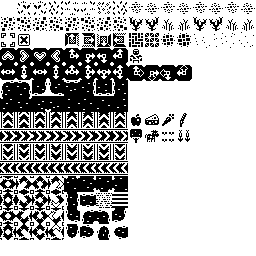
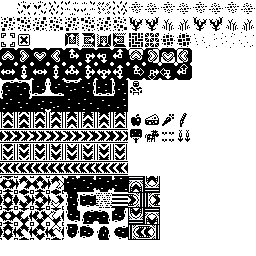
added tunnels

Changed region(s): [[0.5, 0.1875, 0.75, 0.375], [0.5, 0.6875, 0.625, 0.9375]]

diff --git a/src/buildings/conveyor.c b/src/buildings/conveyor.c
@@ -24,12 +24,20 @@ void conveyorUpdateFn(struct Building_t* _building, uint8_t _tick, uint8_t _zoom
       direction = _building->m_nextDir[_building->m_mode];
     }
 
-    switch (direction) {
-      case SN:; pd->sprite->moveTo(loc->m_cargo->m_sprite[_zoom], _building->m_pix_x*_zoom, (_building->m_pix_y - _building->m_progress)*_zoom); break;
-      case NS:; pd->sprite->moveTo(loc->m_cargo->m_sprite[_zoom], _building->m_pix_x*_zoom, (_building->m_pix_y + _building->m_progress)*_zoom); break;
-      case EW:; pd->sprite->moveTo(loc->m_cargo->m_sprite[_zoom], (_building->m_pix_x - _building->m_progress)*_zoom, _building->m_pix_y*_zoom); break;
-      case WE:; pd->sprite->moveTo(loc->m_cargo->m_sprite[_zoom], (_building->m_pix_x + _building->m_progress)*_zoom, _building->m_pix_y*_zoom); break;
-      case kDirN:; break;
+    // All of this only needs to be done if we are rendering
+    if (_tick == NEAR_TICK_AMOUNT) {
+      uint16_t hide = 0;
+      if (_building->m_subType.conveyor == kTunnelIn) {
+        hide = (TOT_WORLD_PIX_X * 2);
+      }
+
+      switch (direction) {
+        case SN:; pd->sprite->moveTo(loc->m_cargo->m_sprite[_zoom], (_building->m_pix_x + hide)*_zoom, (_building->m_pix_y - _building->m_progress + hide)*_zoom); break;
+        case NS:; pd->sprite->moveTo(loc->m_cargo->m_sprite[_zoom], (_building->m_pix_x + hide)*_zoom, (_building->m_pix_y + _building->m_progress + hide)*_zoom); break;
+        case EW:; pd->sprite->moveTo(loc->m_cargo->m_sprite[_zoom], (_building->m_pix_x - _building->m_progress + hide)*_zoom, (_building->m_pix_y + hide)*_zoom); break;
+        case WE:; pd->sprite->moveTo(loc->m_cargo->m_sprite[_zoom], (_building->m_pix_x + _building->m_progress + hide)*_zoom, (_building->m_pix_y + hide)*_zoom); break;
+        case kDirN:; break;
+      }
     }
     //pd->system->logToConsole("MOVE %i %i, %i", loc->m_pix_x, loc->m_pix_y, loc->m_progress);
   }
@@ -63,20 +71,60 @@ void conveyorUpdateFn(struct Building_t* _building, uint8_t _tick, uint8_t _zoom
     switch (_building->m_subType.conveyor) {
       case kSplitI:; case kSplitL:; _building->m_mode = (_building->m_mode + 1) % 2; break;
       case kSplitT:; _building->m_mode = (_building->m_mode + 1) % 3; break;
-      case kBelt:; case kFilterL:; case kNConvSubTypes:; break;
+      case kBelt:; case kFilterL:; case kTunnelIn:; case kTunnelOut:; case kNConvSubTypes:; break;
     }
   }
 }
 
-bool canBePlacedConveyor(struct Location_t* _loc) {
+bool canBePlacedConveyor(struct Location_t* _loc, enum kDir _dir, union kSubType _subType) {
   bool floor = false;
   struct Tile_t* t = getTile(_loc->m_x, _loc->m_y);
   if (t->m_tile < FLOOR_TILES) floor = true;
   else if (t->m_tile >= getSprite16_idx(8, 2) && t->m_tile < getSprite16_idx(8+4, 2)) floor = true;
+
+  if (_subType.conveyor == kTunnelIn) {
+    t = getTunnelOutTile(_loc, _dir);
+    if (t->m_tile < FLOOR_TILES) floor &= true;
+    else if (t->m_tile >= getSprite16_idx(8, 2) && t->m_tile < getSprite16_idx(8+4, 2)) floor &= true;
+  }
+
   if (!floor) return false;
+
   // We can place a conveyor on top of an existing one
-  if (_loc->m_building == NULL || _loc->m_building->m_type == kConveyor) return true;
-  return false;
+  bool existingGood = false;
+  if (_loc->m_building == NULL || _loc->m_building->m_type == kConveyor) existingGood = true;
+
+  if (_subType.conveyor == kTunnelIn) {
+    struct Location_t* tunnelOut = getTunnelOutLocation(_loc, _dir);
+    if (tunnelOut->m_building == NULL || tunnelOut->m_building->m_type == kConveyor) existingGood &= true;
+  }
+
+  if (!existingGood) return false;
+
+  return true;
+}
+
+#define TUNNEL_HOPS 2
+struct Location_t* getTunnelOutLocation(struct Location_t* _in, enum kDir _dir) {
+  switch (_dir) {
+    case SN: return getLocation(_in->m_x, _in->m_y - TUNNEL_HOPS); break;
+    case WE: return getLocation(_in->m_x + TUNNEL_HOPS, _in->m_y); break;
+    case NS: return getLocation(_in->m_x, _in->m_y + TUNNEL_HOPS); break;
+    case EW: return getLocation(_in->m_x - TUNNEL_HOPS, _in->m_y); break;
+    case kDirN: break;
+  }
+  return NULL;
+}
+
+struct Tile_t* getTunnelOutTile(struct Location_t* _in, enum kDir _dir) {
+  switch (_dir) {
+    case SN: return getTile(_in->m_x, _in->m_y - TUNNEL_HOPS); break;
+    case WE: return getTile(_in->m_x + TUNNEL_HOPS, _in->m_y); break;
+    case NS: return getTile(_in->m_x, _in->m_y + TUNNEL_HOPS); break;
+    case EW: return getTile(_in->m_x - TUNNEL_HOPS, _in->m_y); break;
+    case kDirN: break;
+  }
+  return NULL;
 }
 
 void assignNeighborsConveyor(struct Building_t* _building) {
@@ -86,7 +134,13 @@ void assignNeighborsConveyor(struct Building_t* _building) {
   struct Location_t* right;
   getBuildingNeighbors(_building, 1, &above, &below, &left, &right);
 
-  if (_building->m_subType.conveyor == kBelt) {
+  struct Location_t* aboveTunnel;
+  struct Location_t* belowTunnel;
+  struct Location_t* leftTunnel;
+  struct Location_t* rightTunnel;
+  getBuildingNeighbors(_building, TUNNEL_HOPS, &aboveTunnel, &belowTunnel, &leftTunnel, &rightTunnel);
+
+  if (_building->m_subType.conveyor == kBelt || _building->m_subType.conveyor == kTunnelOut) {
     switch (_building->m_dir) {
       case SN:; _building->m_next[0]    = above;
                 _building->m_nextDir[0] = SN; break;
@@ -95,6 +149,18 @@ void assignNeighborsConveyor(struct Building_t* _building) {
       case WE:; _building->m_next[0]    = right;
                 _building->m_nextDir[0] = WE; break;
       case EW:; _building->m_next[0]    = left;
+                _building->m_nextDir[0] = EW; break;
+      case kDirN:; break;
+    }
+  } else if (_building->m_subType.conveyor == kTunnelIn) {
+    switch (_building->m_dir) {
+      case SN:; _building->m_next[0]    = aboveTunnel;
+                _building->m_nextDir[0] = SN; break;
+      case NS:; _building->m_next[0]    = belowTunnel;
+                _building->m_nextDir[0] = NS; break;
+      case WE:; _building->m_next[0]    = rightTunnel;
+                _building->m_nextDir[0] = WE; break;
+      case EW:; _building->m_next[0]    = leftTunnel;
                 _building->m_nextDir[0] = EW; break;
       case kDirN:; break;
     }
@@ -137,11 +203,13 @@ void buildingSetupConveyor(struct Building_t* _building) {
   for (uint32_t zoom = 1; zoom < ZOOM_LEVELS; ++zoom) {
 
     switch (_building->m_subType.conveyor) {
-      case kBelt:;    _building->m_image[zoom] = getSprite16(0, CONV_START_Y + _building->m_dir, zoom); break;
-      case kSplitI:;  _building->m_image[zoom] = getSprite16(0, 11 + _building->m_dir, zoom); break;
-      case kSplitL:;  _building->m_image[zoom] = getSprite16(1, 11 + _building->m_dir, zoom); break;
-      case kSplitT:;  _building->m_image[zoom] = getSprite16(2, 11 + _building->m_dir, zoom); break;
-      case kFilterL:; _building->m_image[zoom] = getSprite16(3, 11 + _building->m_dir, zoom); break;
+      case kBelt:;     _building->m_image[zoom] = getSprite16(0, CONV_START_Y + _building->m_dir, zoom); break;
+      case kSplitI:;   _building->m_image[zoom] = getSprite16(0, 11 + _building->m_dir, zoom); break;
+      case kSplitL:;   _building->m_image[zoom] = getSprite16(1, 11 + _building->m_dir, zoom); break;
+      case kSplitT:;   _building->m_image[zoom] = getSprite16(2, 11 + _building->m_dir, zoom); break;
+      case kFilterL:;  _building->m_image[zoom] = getSprite16(3, 11 + _building->m_dir, zoom); break;
+      case kTunnelIn:; _building->m_image[zoom] = getSprite16(8, 11 + _building->m_dir, zoom); break;
+      case kTunnelOut:;_building->m_image[zoom] = getSprite16(9, 11 + _building->m_dir, zoom); break;
       case kNConvSubTypes:; break;
     }
 
@@ -155,6 +223,11 @@ void buildingSetupConveyor(struct Building_t* _building) {
       pd->sprite->setImage(_building->m_sprite[zoom], getConveyorMaster(zoom, _building->m_dir), kBitmapUnflipped);
       pd->sprite->moveTo(_building->m_sprite[zoom], _building->m_pix_x*zoom, _building->m_pix_y*zoom);
       pd->sprite->setZIndex(_building->m_sprite[zoom], Z_INDEX_CONVEYOR);
+    } else {
+      if (_building->m_sprite[zoom] == NULL) {
+        pd->sprite->freeSprite(_building->m_sprite[zoom]);
+        _building->m_sprite[zoom] = NULL;
+      }
     }
   }
 

diff --git a/src/ui.c b/src/ui.c
@@ -8,7 +8,7 @@
 #include "generate.h"
 #include "cargo.h"
 
-uint16_t m_UIIcons[] = {0,3,  0,4,  4,3,  4,4,  8,4,  8,7,  10,7,  11,7,  9,7,  4,2,  1,2};
+uint16_t m_UIIcons[] = {0,3,  0,4,  4,3,  4,4,  8,4,  8,3,  8,7,  10,7,  11,7,  9,7,  4,2,  1,2};
 
 enum kGameMode m_mode;
 
@@ -114,13 +114,14 @@ void updateBlueprint() {
       case kMenuSplitL:;    pd->sprite->setImage(bp, getSprite16(m_UISelectedRotation+4, 3, zoom),    kBitmapUnflipped); setPlayerLookingAtOffset(0); break;
       case kMenuSplitT:;    pd->sprite->setImage(bp, getSprite16(m_UISelectedRotation+4, 4, zoom),    kBitmapUnflipped); setPlayerLookingAtOffset(0); break;     
       case kMenuFilterL:;   pd->sprite->setImage(bp, getSprite16(m_UISelectedRotation+8, 4, zoom),    kBitmapUnflipped); setPlayerLookingAtOffset(0); break;
-      case kMenuApple:;     pd->sprite->setImage(bp, getSprite16(m_UIIcons[10], m_UIIcons[11], zoom),   kBitmapUnflipped); setPlayerLookingAtOffset(0); break;     
-      case kMenuCarrot:;    pd->sprite->setImage(bp, getSprite16(m_UIIcons[12], m_UIIcons[13], zoom), kBitmapUnflipped); setPlayerLookingAtOffset(0); break;     
-      case kMenuWheat:;     pd->sprite->setImage(bp, getSprite16(m_UIIcons[14], m_UIIcons[15], zoom), kBitmapUnflipped); setPlayerLookingAtOffset(0); break;     
-      case kMenuCheese:;    pd->sprite->setImage(bp, getSprite16(m_UIIcons[16], m_UIIcons[17], zoom), kBitmapUnflipped); setPlayerLookingAtOffset(0); break;     
+      case kMenuTunnel:;    pd->sprite->setImage(bp, getSprite16(m_UISelectedRotation+8, 3, zoom),    kBitmapUnflipped); setPlayerLookingAtOffset(0); break;
+      case kMenuApple:;     pd->sprite->setImage(bp, getSprite16(m_UIIcons[12], m_UIIcons[13], zoom),   kBitmapUnflipped); setPlayerLookingAtOffset(0); break;     
+      case kMenuCarrot:;    pd->sprite->setImage(bp, getSprite16(m_UIIcons[14], m_UIIcons[15], zoom), kBitmapUnflipped); setPlayerLookingAtOffset(0); break;     
+      case kMenuWheat:;     pd->sprite->setImage(bp, getSprite16(m_UIIcons[16], m_UIIcons[17], zoom), kBitmapUnflipped); setPlayerLookingAtOffset(0); break;     
+      case kMenuCheese:;    pd->sprite->setImage(bp, getSprite16(m_UIIcons[18], m_UIIcons[19], zoom), kBitmapUnflipped); setPlayerLookingAtOffset(0); break;     
       case kMenuExtractor:; pd->sprite->setImage(bp, getSprite48(m_UISelectedRotation, 0 , zoom),     kBitmapUnflipped); setPlayerLookingAtOffset(2);
                             pd->sprite->setImage(bpRadius, player->m_blueprintRadiusBitmap7x7[zoom], kBitmapUnflipped); break;     
-      case kMenuBin:;       pd->sprite->setImage(bp, getSprite16(m_UIIcons[20], m_UIIcons[21], zoom), kBitmapUnflipped); setPlayerLookingAtOffset(1); break;     
+      case kMenuBin:;       pd->sprite->setImage(bp, getSprite16(m_UIIcons[22], m_UIIcons[23], zoom), kBitmapUnflipped); setPlayerLookingAtOffset(1); break;     
     }
  
   } else { // Clear blueprint
@@ -138,7 +139,7 @@ void addUIToSpriteList() {
 
 const char* getRotationAsString() {
   switch (m_UISelectedID) {
-    case kMenuConveyor:;
+    case kMenuConveyor:; case kMenuTunnel:;
       switch (m_UISelectedRotation) {
         case 0: return "N";
         case 1: return "E";
@@ -219,6 +220,7 @@ void drawUIBottom() {
       case kMenuSplitL:;    snprintf(text, 128, "'L' Conveyor Splitter (%s)", getRotationAsString()); break;
       case kMenuSplitT:;    snprintf(text, 128, "'T' Conveyor Splitter (%s)", getRotationAsString()); break;
       case kMenuFilterL:;   snprintf(text, 128, "'L' Conveyor Filter (%s)", getRotationAsString()); break;
+      case kMenuTunnel:;    snprintf(text, 128, "Conveyor Tunnel (%s)", getRotationAsString()); break;
       case kMenuApple:;     snprintf(text, 128, "Apple tree, makes apples"); break;
       case kMenuCarrot:;    snprintf(text, 128, "Carrot seeds, grows carrots"); break;
       case kMenuWheat:;     snprintf(text, 128, "Wheat seeds, grows wheat"); break;

diff --git a/src/building.c b/src/building.c
@@ -41,6 +41,8 @@ const char* toStringBuilding(struct Building_t* _building) {
       case kSplitL: return "Conveyor 'L' Splitter";
       case kSplitT: return "Conveyor 'T' Splitter";
       case kFilterL: return "Conveyor 'L' Filter";
+      case kTunnelIn: return "Conveyor Tunnel (In)";
+      case kTunnelOut: return "Conveyor Tunnel (Out)";
       case kNConvSubTypes: return "";
     }
     case kPlant: switch (_building->m_subType.plant) {
@@ -154,10 +156,10 @@ void assignUpdate(struct Building_t* _building) {
 bool newBuilding(struct Location_t* _loc, enum kDir _dir, enum kBuildingType _type, union kSubType _subType) {
   bool canBePlaced = false;
   switch (_type) {
-    case kConveyor:; canBePlaced = canBePlacedConveyor(_loc); break;
-    case kPlant:;  canBePlaced = canBePlacedPlant(_loc); break;
-    case kExtractor:;  canBePlaced = canBePlacedExtractor(_loc); break;
-    case kSpecial:;  canBePlaced = canBePlacedSpecial(_loc); break;
+    case kConveyor:; canBePlaced = canBePlacedConveyor(_loc, _dir, _subType); break;
+    case kPlant:;  canBePlaced = canBePlacedPlant(_loc, _dir, _subType); break;
+    case kExtractor:;  canBePlaced = canBePlacedExtractor(_loc, _dir, _subType); break;
+    case kSpecial:;  canBePlaced = canBePlacedSpecial(_loc, _dir, _subType); break;
     case kFactory:;  break;
     case kNoBuilding:; case kNBuildingTypes:; canBePlaced = false; break;
   }
@@ -185,7 +187,6 @@ bool newBuilding(struct Location_t* _loc, enum kDir _dir, enum kBuildingType _ty
       }
     }
   }
-
 
   switch (building->m_type) {
     case kConveyor:; building->m_subType.conveyor = _subType.conveyor; break;
@@ -221,6 +222,12 @@ bool newBuilding(struct Location_t* _loc, enum kDir _dir, enum kBuildingType _ty
     renderChunkBackgroundImageAround(_loc->m_chunk);
   } else {
     renderChunkBackgroundImage(_loc->m_chunk);
+  }
+
+  // If placing an input tunnel, then also place the output tunnel too (canBePlacedConveyor will have thecked that this is all OK)
+  if (_type == kConveyor && _subType.conveyor == kTunnelIn) {
+    struct Location_t* tunnelOut = getTunnelOutLocation(_loc, _dir);
+    return newBuilding(tunnelOut, _dir, kConveyor, (union kSubType) {.conveyor = kTunnelOut});
   }
 
   updateRenderList();

diff --git a/src/input.c b/src/input.c
@@ -91,6 +91,7 @@ void clickHandleMenuOptionSelected(uint32_t _buttonPressed) {
       case kMenuSplitL:;   newBuilding(getPlayerLookingAtLocation(), getUISelectedRotation(), kConveyor, (union kSubType) {.conveyor = kSplitL} ); break;
       case kMenuSplitT:;   newBuilding(getPlayerLookingAtLocation(), getUISelectedRotation(), kConveyor, (union kSubType) {.conveyor = kSplitT} ); break;
       case kMenuFilterL:;  newBuilding(getPlayerLookingAtLocation(), getUISelectedRotation(), kConveyor, (union kSubType) {.conveyor = kFilterL} ); break;
+      case kMenuTunnel:;   newBuilding(getPlayerLookingAtLocation(), getUISelectedRotation(), kConveyor, (union kSubType) {.conveyor = kTunnelIn} ); break;
       case kMenuApple:;    newBuilding(getPlayerLookingAtLocation(), getUISelectedRotation(), kPlant, (union kSubType) {.plant = kAppleTree} ); break;
       case kMenuCarrot:;   newBuilding(getPlayerLookingAtLocation(), getUISelectedRotation(), kPlant, (union kSubType) {.plant = kCarrotPlant} ); break;
       case kMenuWheat:;    newBuilding(getPlayerLookingAtLocation(), getUISelectedRotation(), kPlant, (union kSubType) {.plant = kWheatPlant} ); break;

diff --git a/src/player.c b/src/player.c
@@ -223,7 +223,7 @@ void playerSpriteSetup() {
     m_player.m_sprite[zoom] = pd->sprite->newSprite();
     PDRect bound = {.x = 0, .y = 0, .width = TILE_PIX*zoom, .height = TILE_PIX*zoom};
     pd->sprite->setBounds(m_player.m_sprite[zoom], bound);
-    pd->sprite->setImage(m_player.m_sprite[zoom], getSprite16(8, 3, zoom), kBitmapUnflipped);
+    pd->sprite->setImage(m_player.m_sprite[zoom], getSprite16(8, 5, zoom), kBitmapUnflipped);
     pd->sprite->setCollideRect(m_player.m_sprite[zoom], bound);
 
     m_player.m_blueprint[zoom] = pd->sprite->newSprite();

diff --git a/src/ui.h b/src/ui.h
@@ -3,7 +3,7 @@
 
 enum kGameMode {kWander, kMenuSelect, kMenuOptionSelected};
 
-enum kMenuSelections {kMenuConveyor, kMenuSplitI, kMenuSplitL, kMenuSplitT, kMenuFilterL, kMenuApple, kMenuCarrot, kMenuWheat, kMenuCheese, kMenuExtractor, kMenuBin};
+enum kMenuSelections {kMenuConveyor, kMenuSplitI, kMenuSplitL, kMenuSplitT, kMenuFilterL, kMenuTunnel, kMenuApple, kMenuCarrot, kMenuWheat, kMenuCheese, kMenuExtractor, kMenuBin};
 
 void addUIToSpriteList(void);
 

diff --git a/src/buildings/conveyor.h b/src/buildings/conveyor.h
@@ -8,4 +8,8 @@ void assignNeighborsConveyor(struct Building_t* _building);
 
 void buildingSetupConveyor(struct Building_t* _building);
 
-bool canBePlacedConveyor(struct Location_t* _loc);
+bool canBePlacedConveyor(struct Location_t* _loc, enum kDir _dir, union kSubType _subType);
+
+struct Location_t* getTunnelOutLocation(struct Location_t* _in, enum kDir _dir);
+
+struct Tile_t* getTunnelOutTile(struct Location_t* _in, enum kDir _dir);

diff --git a/src/buildings/extractor.c b/src/buildings/extractor.c
@@ -58,7 +58,7 @@ void extractorUpdateFn(struct Building_t* _building, uint8_t _tick, uint8_t _zoo
   }
 }
 
-bool canBePlacedExtractor(struct Location_t* _loc) {
+bool canBePlacedExtractor(struct Location_t* _loc, enum kDir _dir, union kSubType _subType) {
   for (int32_t x = -1; x < 2; ++x) {
     for (int32_t y = -1; y < 2; ++y) {
       struct Tile_t* t = getTile(_loc->m_x + x, _loc->m_y + y);

diff --git a/src/buildings/plant.c b/src/buildings/plant.c
@@ -64,7 +64,7 @@ void plantUpdateFn(struct Building_t* _building, uint8_t _tick, uint8_t _zoom) {
   */
 }
 
-bool canBePlacedPlant(struct Location_t* _loc) {
+bool canBePlacedPlant(struct Location_t* _loc, enum kDir _dir, union kSubType _subType) {
   struct Tile_t* t = getTile(_loc->m_x, _loc->m_y);
   if (t->m_tile > FLOOR_TILES) return false;
   if (_loc->m_building != NULL) return false;

diff --git a/src/building.h b/src/building.h
@@ -9,7 +9,7 @@ enum kBuildingType {kNoBuilding, kConveyor, kPlant, kExtractor, kFactory, kSpeci
 
 ///
 
-enum kConvSubType{kBelt, kSplitI, kSplitL, kSplitT, kFilterL, kNConvSubTypes};
+enum kConvSubType{kBelt, kSplitI, kSplitL, kSplitT, kFilterL, kTunnelIn, kTunnelOut, kNConvSubTypes};
 
 enum kPlantSubType{kCarrotPlant, kAppleTree, kWheatPlant, kNPlantSubTypes};
 

diff --git a/src/buildings/extractor.h b/src/buildings/extractor.h
@@ -8,4 +8,4 @@ void assignNeighborsExtractor(struct Building_t* _building);
 
 void buildingSetupExtractor(struct Building_t* _building);
 
-bool canBePlacedExtractor(struct Location_t* _loc);
+bool canBePlacedExtractor(struct Location_t* _loc, enum kDir _dir, union kSubType _subType);

diff --git a/src/buildings/special.h b/src/buildings/special.h
@@ -8,4 +8,4 @@ void assignNeighborsSpecial(struct Building_t* _building);
 
 void buildingSetupSpecial(struct Building_t* _building);
 
-bool canBePlacedSpecial(struct Location_t* _loc);
+bool canBePlacedSpecial(struct Location_t* _loc, enum kDir _dir, union kSubType _subType);
